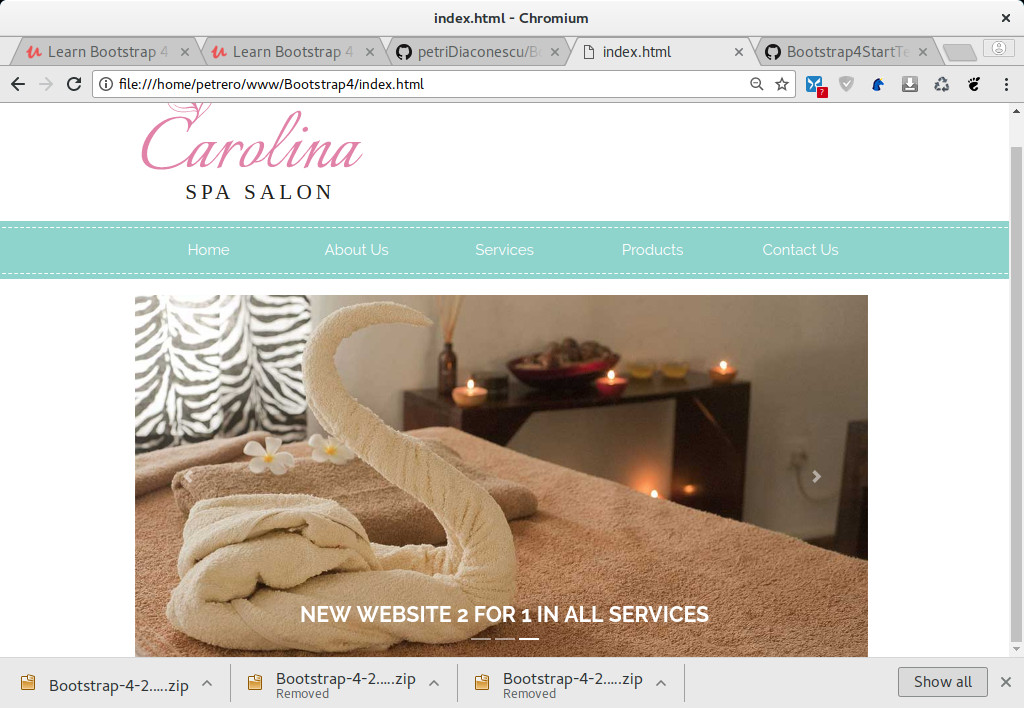
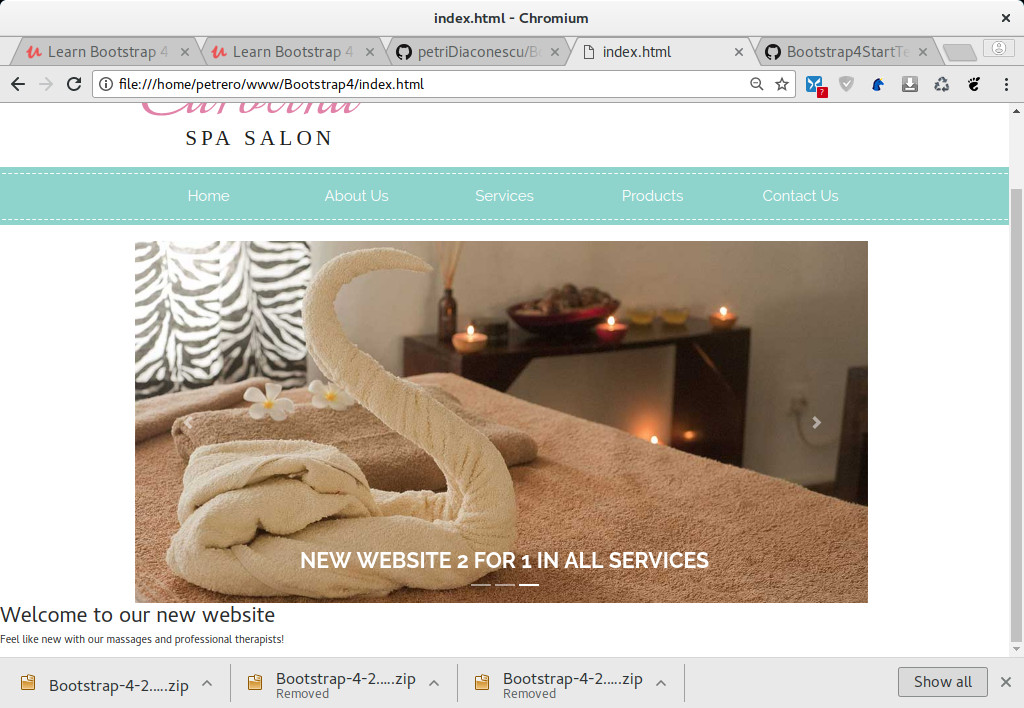
Center the content of the section created earlier

diff --git a/index.html b/index.html
@@ -106,8 +106,8 @@
     </div>
     
     <section class="new-website">
-      <h2>Welcome to our new website</h2>
-      <p>Feel like new with our massages and professional therapists!</p>
+      <h2 class="text-center">Welcome to our new website</h2>
+      <p class="text-center">Feel like new with our massages and professional therapists!</p>
     </section>
     
     <script src="js/jquery.slim.js"></script>
